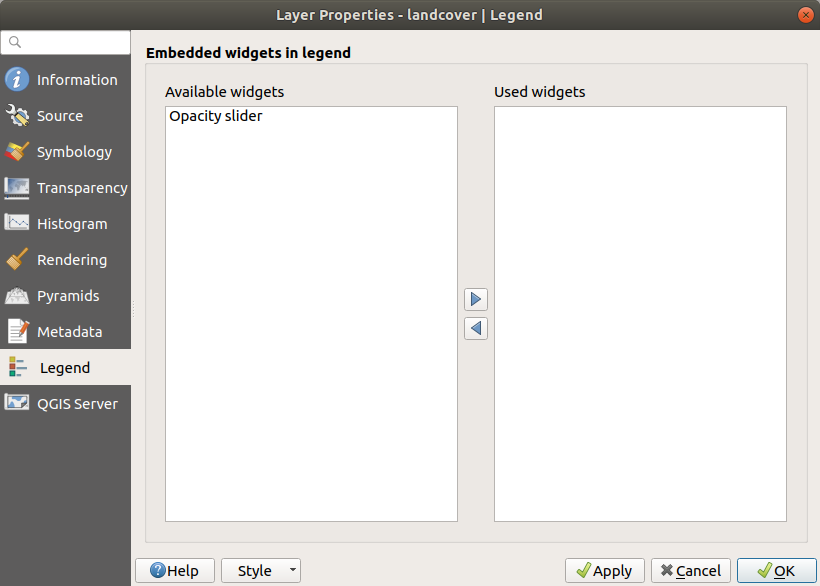
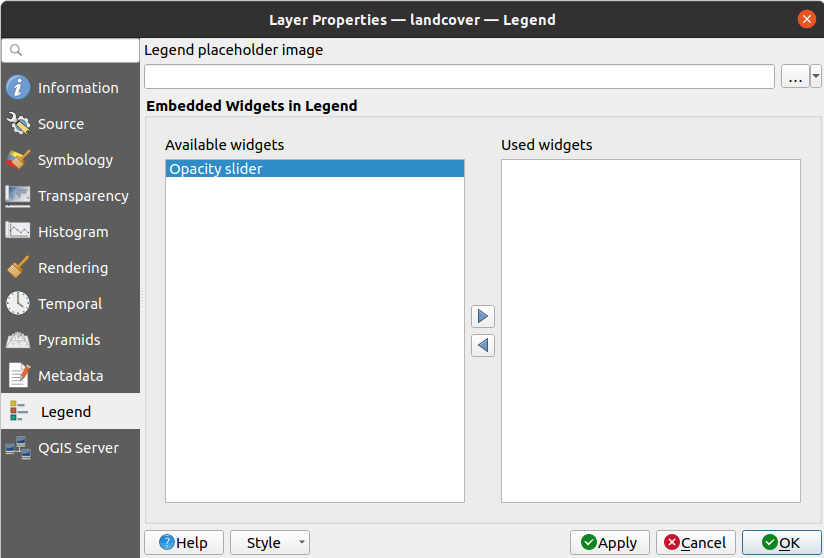
Misc properties update of raster layer

diff --git a/docs/user_manual/working_with_raster/raster_properties.rst b/docs/user_manual/working_with_raster/raster_properties.rst
@@ -108,6 +108,12 @@ the selected raster, including:
 Symbology Properties
 ====================
 
+The raster layer symbology tab is made of three different sections:
+
+* The :guilabel:`Band rendering` where you can control the renderer type to use
+* The :guilabel:`Color rendering` to apply effects on rendered data
+* The :guilabel:`Resampling` methods to optimize rendering on map
+
 Band rendering
 --------------
 
@@ -443,18 +449,21 @@ Color ramp shader classification
 Color rendering
 ---------------
 
-For all kinds of :guilabel:`Band rendering`, the
-:guilabel:`Color rendering` set.
+Over the symbology type applied to the layer band(s), you can
+achieve special rendering effects for the whole raster file(s):
 
-You can achieve special rendering effects for your raster file(s)
-by using one of the blending modes (see :ref:`blend-modes`).
+* Use one of the blending modes (see :ref:`blend-modes`)
+* Set custom :guilabel:`Brightness`, :guilabel:`Saturation`,
+  :guilabel:`Gamma` and :guilabel:`Contrast` to colors.
+* With the |checkbox|:guilabel:`Invert colors`, the layer is rendered with
+  opposite colors. Handy, for example, to switch out-of-the box OpenStreetMap
+  tiles to dark mode.
+* Turn the layer to :guilabel:`Grayscale` option either 'By lightness',
+  'By luminosity' or 'By average'.
+* :guilabel:`Colorize` and adjust the :guilabel:`Strength` of
+  :guilabel:`Hue` in the color table
 
-Further settings can be made by modifying the :guilabel:`Brightness`,
-:guilabel:`Saturation`, :guilabel:`Gamma` and :guilabel:`Contrast`.
-You can also use a :guilabel:`Grayscale` option, where you can choose
-between 'Off', 'By lightness', 'By luminosity' and 'By average'.
-For one :guilabel:`Hue` in the color table, you can modify the
-'Strength'.
+Press :guilabel:`Reset` to remove any custom changes to the color rendering.
 
 Resampling
 ----------
@@ -481,9 +490,6 @@ The effect is a smoother image.
 This method can be applied to for instance digital topographic
 raster maps.
 
-At the bottom of the :guilabel:`Symbology` tab, you can see a
-thumbnail of the layer, its legend symbol, and the palette.
-
 
 .. index:: Transparency
 .. _raster_transparency:
@@ -491,14 +497,18 @@ thumbnail of the layer, its legend symbol, and the palette.
 Transparency Properties
 =======================
 
-|transparency| QGIS has the ability to set the transparency level
+|transparency| QGIS provides capabilities to set the transparency level
 of a raster layer.
-Use the transparency slider |slider| to set to what extent the
+
+Use the :guilabel:`Global opacity` slider to set to what extent the
 underlying layers (if any) should be visible through the current
 raster layer.
 This is very useful if you overlay raster layers (e.g., a shaded
 relief map overlayed by a classified raster map).
 This will make the look of the map more three dimensional.
+The opacity of the raster can be data-defined, and vary e.g. depending on
+the visibility of another layer, by temporal variables, on different pages
+of an atlas, ...
 
 .. _figure_raster_transparency:
 
@@ -507,8 +517,12 @@ This will make the look of the map more three dimensional.
 
    Raster Transparency
 
+With |checkbox| :guilabel:`No data value` QGIS reports the original source
+no data value (if defined) which you can consider as is in the rendering.
 Additionally, you can enter a raster value that should be treated as
 an :guilabel:`Additional no data value`.
+The :guilabel:`Display no data as` color selector allows you to applied
+a custom color to no data pixels, instead of the default transparent rendering.
 
 An even more flexible way to customize the transparency is available
 in the :guilabel:`Custom transparency options` section:
@@ -681,15 +695,25 @@ See :ref:`metadatamenu` for more information.
 Legend Properties
 =================
 
-The |legend| :guilabel:`Legend` tab provides you with a list of
-widgets you can embed within the layer tree in the Layers panel.
-The idea is to have a way to quickly access some actions that are
-often used with the layer (setup transparency, filtering, selection,
-style or other stuff...).
+The |legend| :guilabel:`Legend` tab provides you with advanced
+settings for the :ref:`Layers panel <label_legend>` and/or the :ref:`print
+layout legend <layout_legend_item>`. These options include:
 
-By default, QGIS provides a transparency widget but this can be
-extended by plugins that register their own widgets and assign
-custom actions to layers they manage.
+* Depending on the symbology applied to the layer, you may end up with several
+  entries in the legend, not necessarily readable/useful to display.
+  The :guilabel:`Legend placeholder image` helps you :ref:`select an image
+  <embedded_file_selector>` for replacement, displayed both in the
+  :guilabel:`Layers` panel and the print layout legend.
+* The |legend| :guilabel:`Embedded widgets in Legend` provides you with a list
+  of widgets you can embed within the layer tree in the Layers panel.
+  The idea is to have a way to quickly access some actions that are
+  often used with the layer (setup transparency, filtering, selection,
+  style or other stuff...).
+
+  By default, QGIS provides a transparency widget but this can be
+  extended by plugins that register their own widgets and assign
+  custom actions to layers they manage.
+
 
 .. _figure_raster_legend:
 

diff --git a/docs/user_manual/working_with_vector/vector_properties.rst b/docs/user_manual/working_with_vector/vector_properties.rst
@@ -3124,6 +3124,11 @@ Legend Properties
 settings for the :ref:`Layers panel <label_legend>` and/or the :ref:`print
 layout legend <layout_legend_item>`. These options include:
 
+* Depending on the symbology applied to the layer, you may end up with several
+  entries in the legend, not necessarily readable/useful to display.
+  The :guilabel:`Legend placeholder image` helps you :ref:`select an image
+  <embedded_file_selector>` for replacement, displayed both in the
+  :guilabel:`Layers` panel and the print layout legend.
 * |checkbox| :guilabel:`Text on symbols`: In some cases it can be useful to add
   extra information to the symbols in the legend. With this frame, you can
   affect to any of the symbols used in the layer symbology a text that is
